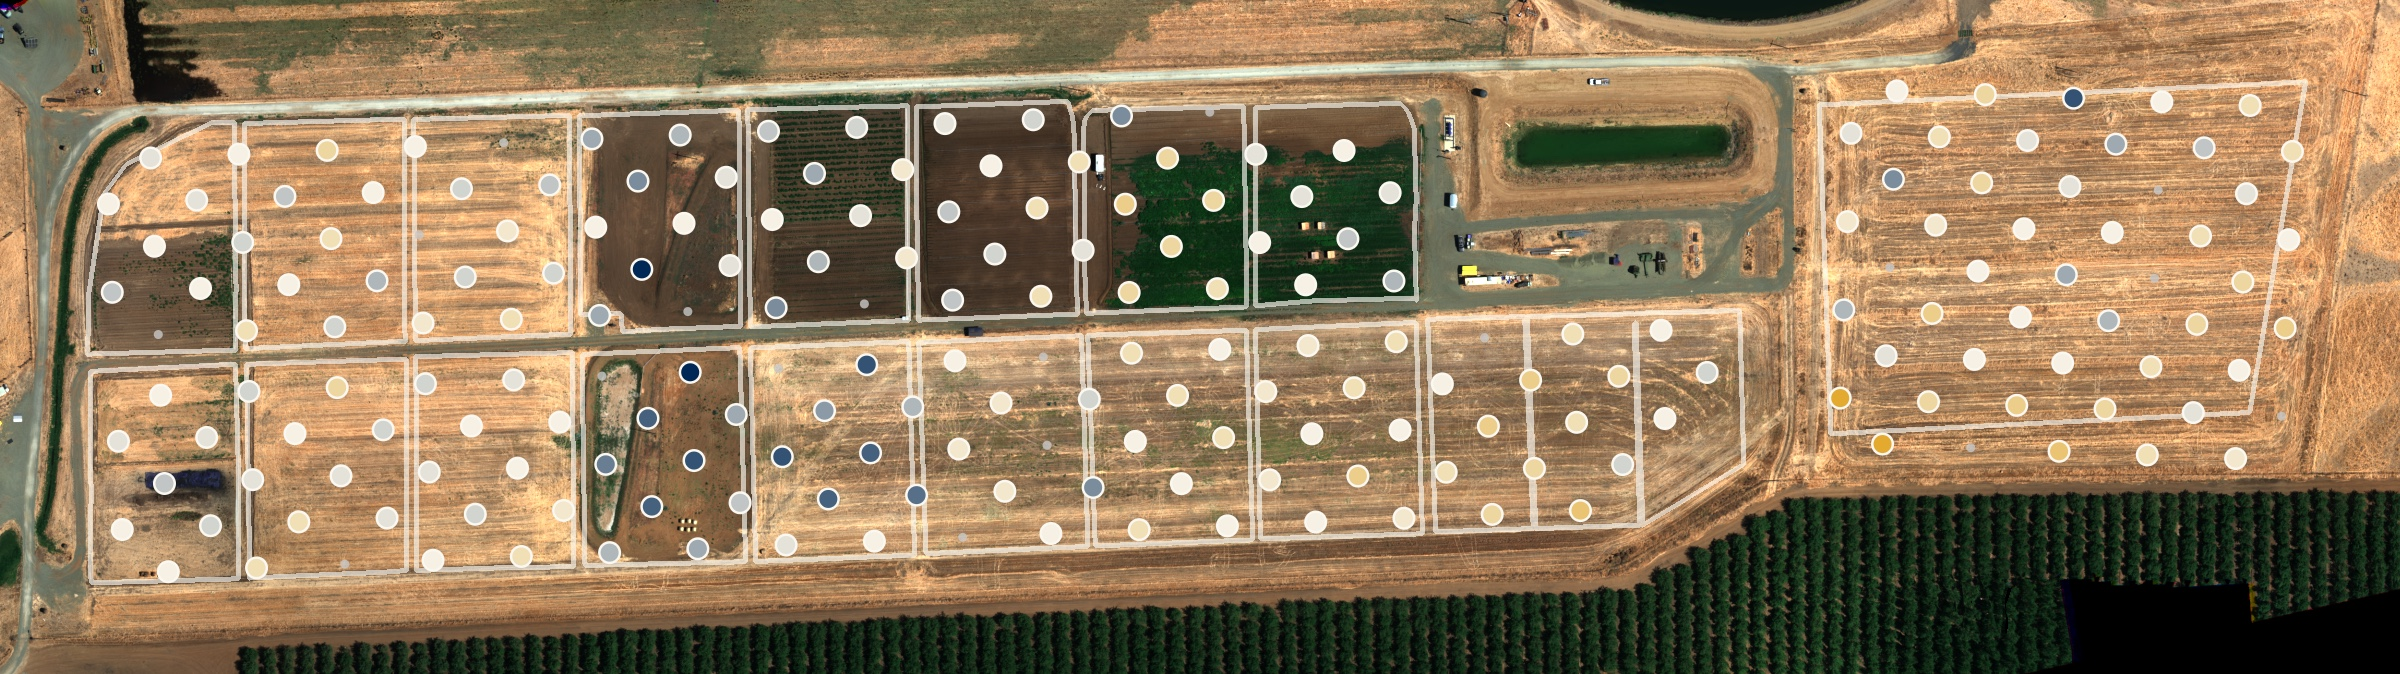
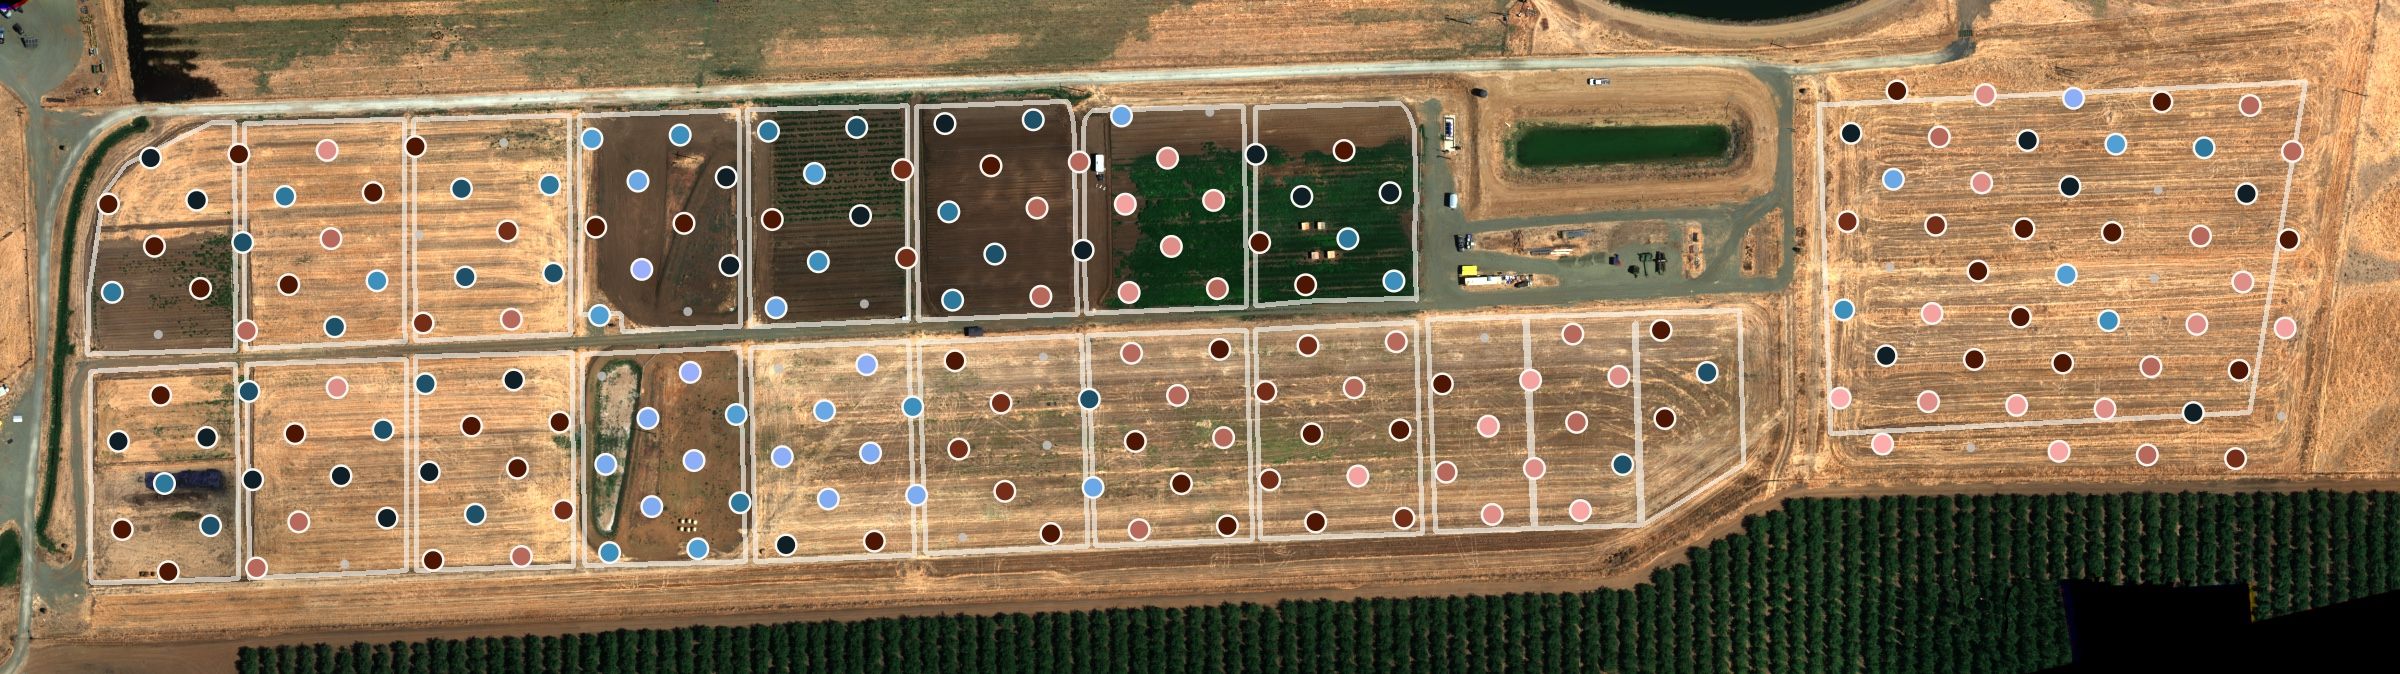
Soil grid: Crameri berlin ramp, rank-normalized, warm imagery
Hand-rolled gold/cream/navy blended into the tan stubble; berlin
(reversed: red=acid, dark=neutral, blue=alkaline) shares no hue with
the imagery. Rank normalization spreads median-clustered pH values
across the full ramp.

diff --git a/slides.md b/slides.md
@@ -569,9 +569,9 @@ layout: default
 </div>
 
 <div class="uc-layer-labels mt-2">
-  <div><span class="uc-dot" style="background:#e3aa2f"></span>Acidic · pH 5.4</div>
-  <div><span class="uc-dot" style="background:#f6f1e4; border:1px solid #00285655"></span>Median · 6.2</div>
-  <div><span class="uc-dot" style="background:#002856"></span>Alkaline · 7.6</div>
+  <div><span class="uc-dot" style="background:#ffadad"></span>Acidic · pH 5.4</div>
+  <div><span class="uc-dot" style="background:#190c09"></span>Median · 6.2</div>
+  <div><span class="uc-dot" style="background:#9eb0ff"></span>Alkaline · 7.6</div>
 </div>
 
 <div class="uc-callout mt-4">